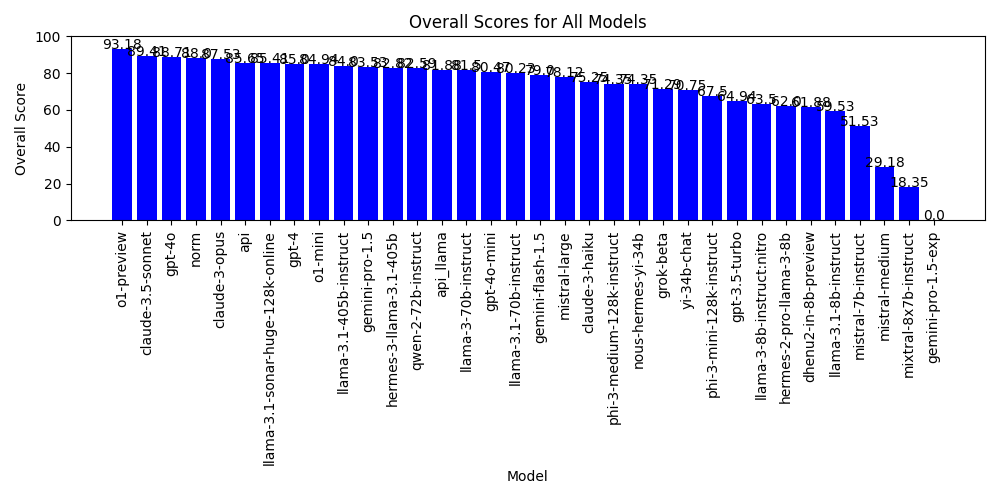
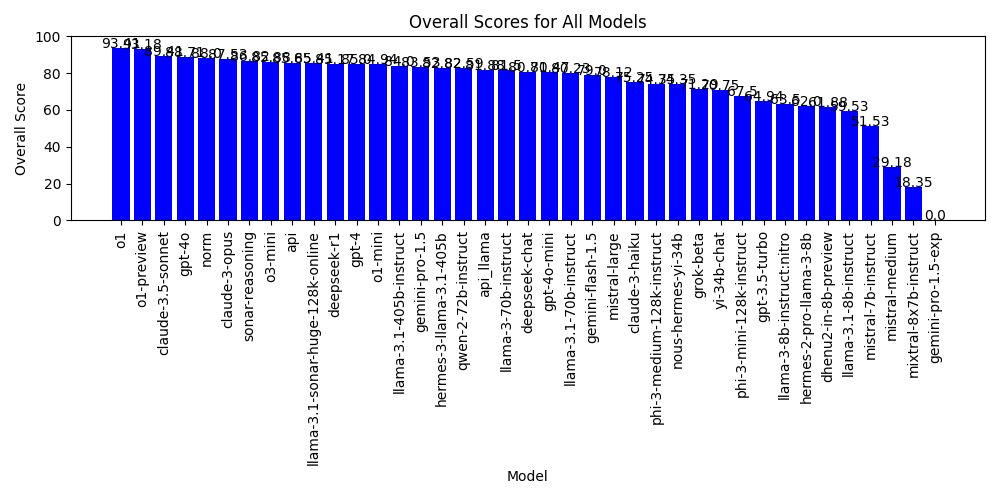
Adding Deepseek & o3-mini

Changed region(s): [[0.093, 0.06, 0.961, 0.93], [0.31, 0.84, 0.341, 0.93]]

diff --git a/main.py b/main.py
@@ -334,7 +334,8 @@ def compare_benchmark_scores(benchmark_results_dir, graphs_by_category_dir, grap
 
 system_prompt = """
         You are a helpful and brilliant agronomist. For the following multiple choice Question, answer  with the key of the correct answer_options value. 
-        Your response must be ONLY the answer_options key of the correct answer_options value and no other text. respond with ONLY a single letter key from answer_options.
+        Your response must be ONLY the answer_options key of the correct answer_options value and no other text. respond with ONLY a single letter key from answer_options. If anything other than a single letter is submitted you will FAIL.
+        DO NOT INCLUDE any Prose, explanation, chain of thought, thought process, or other comments.
 
 """
 
@@ -377,6 +378,7 @@ model_ids = [
     #"openai/gpt-4o-mini",
     #"openai/o1-preview",
     #"openai/o1-mini",
+    #"openai/o1",
     #"perplexity/llama-3-sonar-large-32k-chat",
     #"perplexity/llama-3.1-sonar-huge-128k-online",
     #"pratik/llama3-8b-dhenu-0.1",
@@ -385,7 +387,12 @@ model_ids = [
     #"x-ai/grok-beta",
     #"dhenu/dhenu2-in-8b-preview",
     #"centeotl/api_llama",
-    #"centeotl/api"
+    #"centeotl/api".
+    #"deepseek/deepseek-chat",
+    #"deepseek/deepseek-r1",
+    #"perplexity/sonar-reasoning",
+
+
 
 ]
 

diff --git a/README.md b/README.md
@@ -4,42 +4,46 @@
 ![Overall Scores for All Models](./benchmark_results/all_models_overall_score.png)
 
 
-| Model Name | Overall Score | Date Tested | nutrient_management | soil_and_water | pest_management | crop_management | V1_benchmark_questions | community_questions_FBN | License Type |
-|------------|---------------|-------------|---------------------|----------------|-----------------|-----------------|------------------------|------------------------|--------------|
-| o1-preview | 93.18% | 2024-09-27 | 94.12% | 97.5% | 91.94% | 95.59% | 90.48% | 84.0% | Proprietary |
-| claude-3.5-sonnet | 89.41% | 2024-08-24 | 87.06% | 92.5% | 90.32% | 89.71% | 89.52% | 84.0% | Proprietary |
-| gpt-4o | 88.71% | 2024-08-24 | 87.06% | 88.75% | 90.32% | 88.24% | 91.43% | 80.0% | Proprietary |
-| norm | 88.0% | 2024-08-24 | 82.35% | 90.0% | 88.71% | 89.71% | 89.52% | 88.0% | Proprietary |
-| claude-3-opus | 87.53% | 2024-08-24 | 88.24% | 86.25% | 85.48% | 92.65% | 86.67% | 84.0% | Proprietary |
-| centeotl-api | 85.65% | 2024-11-14 | 88.24% | 85.0% | 88.71% | 80.88% | 88.57% | 72.0% | Proprietary |
-| llama-3.1-sonar-huge-128k-online | 85.41% | 2024-08-24 | 83.53% | 81.25% | 82.26% | 89.71% | 89.52% | 84.0% | Proprietary |
-| gpt-4 | 85.0% | 2024-06-14 | 83.53% | 83.75% | 83.87% | 86.76% | 86.67% | | Proprietary |
-| o1-mini | 84.94% | 2024-09-27 | 85.88% | 85.0% | 85.48% | 83.82% | 87.62% | 72.0% | Proprietary |
-| llama-3.1-405b-instruct | 84.0% | 2024-08-24 | 83.53% | 81.25% | 83.87% | 88.24% | 87.62% | 68.0% | Open Source |
-| gemini-pro-1.5 | 83.53% | 2024-08-24 | 83.53% | 83.75% | 82.26% | 86.76% | 85.71% | 68.0% | Proprietary |
-| hermes-3-llama-3.1-405b | 82.82% | 2024-08-24 | 81.18% | 82.5% | 87.1% | 85.29% | 83.81% | 68.0% | Open Source |
-| qwen-2-72b-instruct | 82.59% | 2024-08-24 | 82.35% | 82.5% | 82.26% | 85.29% | 85.71% | 64.0% | Open Source |
-| centeotl-api-llama | 81.88% | 2024-11-17 | 85.88% | 85.0% | 82.26% | 79.41% | 83.81% | 56.0% | Proprietary |
-| llama-3-70b-instruct | 81.5% | 2024-06-14 | 78.82% | 78.75% | 82.26% | 83.82% | 83.81% | | Open Source |
-| gpt-4o-mini | 80.47% | 2024-08-24 | 77.65% | 85.0% | 75.81% | 82.35% | 81.9% | 76.0% | Proprietary |
-| llama-3.1-70b-instruct | 80.23% | 2024-08-24 | 75.29% | 81.25% | 82.26% | 89.71% | 80.95% | 60.0% | Open Source |
-| gemini-flash-1.5 | 79.0% | 2024-06-14 | 74.12% | 76.25% | 83.87% | 85.29% | 78.1% | | Proprietary |
-| mistral-large | 78.12% | 2024-08-24 | 75.29% | 77.5% | 82.26% | 76.47% | 81.9% | 68.0% | Open Source |
-| claude-3-haiku | 75.25% | 2024-06-14 | 71.76% | 73.75% | 79.03% | 72.06% | 79.05% | | Proprietary |
-| phi-3-medium-128k-instruct | 74.35% | 2024-08-24 | 70.59% | 77.5% | 79.03% | 75.0% | 73.33% | 68.0% | Open Source |
-| nous-hermes-yi-34b | 74.35% | 2024-08-24 | 70.59% | 76.25% | 83.87% | 72.06% | 74.29% | 64.0% | Open Source |
-| grok-beta | 71.29% | 2024-10-21 | 72.94% | 68.75% | 67.74% | 67.65% | 76.19% | 72.0% | Proprietary |
-| yi-34b-chat | 70.75% | 2024-06-14 | 68.24% | 68.75% | 79.03% | 70.59% | 69.52% | | Open Source |
-| phi-3-mini-128k-instruct | 67.5% | 2024-06-14 | 60.0% | 71.25% | 67.74% | 69.12% | 69.52% | | Open Source |
-| gpt-3.5-turbo | 64.94% | 2024-08-24 | 62.35% | 61.25% | 70.97% | 72.06% | 70.48% | 28.0% | Proprietary |
-| llama-3-8b-instruct:nitro | 63.5% | 2024-06-14 | 54.12% | 68.75% | 61.29% | 72.06% | 62.86% | | Open Source |
-| hermes-2-pro-llama-3-8b | 62.0% | 2024-06-14 | 57.65% | 57.5% | 62.9% | 66.18% | 65.71% | | Open Source |
-| dhenu2-in-8b-preview | 61.88% | 2024-11-14 | 52.94% | 67.5% | 67.74% | 61.76% | 66.67% | 40.0% | Open Source |
-| llama-3.1-8b-instruct | 59.53% | 2024-08-24 | 51.76% | 58.75% | 61.29% | 66.18% | 59.05% | 68.0% | Open Source |
-| mistral-7b-instruct | 51.53% | 2024-08-24 | 41.18% | 50.0% | 62.9% | 60.29% | 53.33% | 32.0% | Open Source |
-| mistral-medium | 29.18% | 2024-08-24 | 30.59% | 23.75% | 20.97% | 41.18% | 34.29% | 8.0% | Open Source |
-| mixtral-8x7b-instruct | 18.35% | 2024-08-24 | 16.47% | 13.75% | 17.74% | 14.71% | 26.67% | 16.0% | Open Source |
-
+| Model Name | Overall Score | Date Tested | nutrient_management | soil_and_water | pest_management | crop_management | V1_benchmark_questions | community_questions_FBN |
+|------------|---------------|-------------|-------|-------|-------|-------|-------|-------|
+| o1 | 93.41% | 2025-02-05 | 96.47% | 96.25% | 90.32% | 94.12% | 91.43% | 88.0% |
+| o1-preview | 93.18% | 2024-09-27 | 94.12% | 97.5% | 91.94% | 95.59% | 90.48% | 84.0% |
+| claude-3.5-sonnet | 89.41% | 2024-08-24 | 87.06% | 92.5% | 90.32% | 89.71% | 89.52% | 84.0% |
+| gpt-4o | 88.71% | 2024-08-24 | 87.06% | 88.75% | 90.32% | 88.24% | 91.43% | 80.0% |
+| norm | 88.0% | 2024-08-24 | 82.35% | 90.0% | 88.71% | 89.71% | 89.52% | 88.0% |
+| claude-3-opus | 87.53% | 2024-08-24 | 88.24% | 86.25% | 85.48% | 92.65% | 86.67% | 84.0% |
+| sonar-reasoning | 86.82% | 2025-02-04 | 85.88% | 86.25% | 85.48% | 88.24% | 88.57% | 84.0% |
+| o3-mini | 85.88% | 2025-02-04 | 83.53% | 92.5% | 87.1% | 88.24% | 85.71% | 64.0% |
+| api | 85.65% | 2024-11-14 | 88.24% | 85.0% | 88.71% | 80.88% | 88.57% | 72.0% |
+| llama-3.1-sonar-huge-128k-online | 85.41% | 2024-08-24 | 83.53% | 81.25% | 82.26% | 89.71% | 89.52% | 84.0% |
+| deepseek-r1 | 85.17% | 2025-02-04 | 82.35% | 82.5% | 90.32% | 86.76% | 85.71% | 84.0% |
+| gpt-4 | 85.0% | 2024-06-14 | 83.53% | 83.75% | 83.87% | 86.76% | 86.67% |
+| o1-mini | 84.94% | 2024-09-27 | 85.88% | 85.0% | 85.48% | 83.82% | 87.62% | 72.0% |
+| llama-3.1-405b-instruct | 84.0% | 2024-08-24 | 83.53% | 81.25% | 83.87% | 88.24% | 87.62% | 68.0% |
+| gemini-pro-1.5 | 83.53% | 2024-08-24 | 83.53% | 83.75% | 82.26% | 86.76% | 85.71% | 68.0% |
+| hermes-3-llama-3.1-405b | 82.82% | 2024-08-24 | 81.18% | 82.5% | 87.1% | 85.29% | 83.81% | 68.0% |
+| qwen-2-72b-instruct | 82.59% | 2024-08-24 | 82.35% | 82.5% | 82.26% | 85.29% | 85.71% | 64.0% |
+| api_llama | 81.88% | 2024-11-17 | 85.88% | 85.0% | 82.26% | 79.41% | 83.81% | 56.0% |
+| llama-3-70b-instruct | 81.5% | 2024-06-14 | 78.82% | 78.75% | 82.26% | 83.82% | 83.81% |
+| deepseek-chat | 80.71% | 2025-02-04 | 83.53% | 83.75% | 83.87% | 76.47% | 83.81% | 52.0% |
+| gpt-4o-mini | 80.47% | 2024-08-24 | 77.65% | 85.0% | 75.81% | 82.35% | 81.9% | 76.0% |
+| llama-3.1-70b-instruct | 80.23% | 2024-08-24 | 75.29% | 81.25% | 82.26% | 89.71% | 80.95% | 60.0% |
+| gemini-flash-1.5 | 79.0% | 2024-06-14 | 74.12% | 76.25% | 83.87% | 85.29% | 78.1% |
+| mistral-large | 78.12% | 2024-08-24 | 75.29% | 77.5% | 82.26% | 76.47% | 81.9% | 68.0% |
+| claude-3-haiku | 75.25% | 2024-06-14 | 71.76% | 73.75% | 79.03% | 72.06% | 79.05% |
+| phi-3-medium-128k-instruct | 74.35% | 2024-08-24 | 70.59% | 77.5% | 79.03% | 75.0% | 73.33% | 68.0% |
+| nous-hermes-yi-34b | 74.35% | 2024-08-24 | 70.59% | 76.25% | 83.87% | 72.06% | 74.29% | 64.0% |
+| grok-beta | 71.29% | 2024-10-21 | 72.94% | 68.75% | 67.74% | 67.65% | 76.19% | 72.0% |
+| yi-34b-chat | 70.75% | 2024-06-14 | 68.24% | 68.75% | 79.03% | 70.59% | 69.52% |
+| phi-3-mini-128k-instruct | 67.5% | 2024-06-14 | 60.0% | 71.25% | 67.74% | 69.12% | 69.52% |
+| gpt-3.5-turbo | 64.94% | 2024-08-24 | 62.35% | 61.25% | 70.97% | 72.06% | 70.48% | 28.0% |
+| llama-3-8b-instruct:nitro | 63.5% | 2024-06-14 | 54.12% | 68.75% | 61.29% | 72.06% | 62.86% |
+| hermes-2-pro-llama-3-8b | 62.0% | 2024-06-14 | 57.65% | 57.5% | 62.9% | 66.18% | 65.71% |
+| dhenu2-in-8b-preview | 61.88% | 2024-11-14 | 52.94% | 67.5% | 67.74% | 61.76% | 66.67% | 40.0% |
+| llama-3.1-8b-instruct | 59.53% | 2024-08-24 | 51.76% | 58.75% | 61.29% | 66.18% | 59.05% | 68.0% |
+| mistral-7b-instruct | 51.53% | 2024-08-24 | 41.18% | 50.0% | 62.9% | 60.29% | 53.33% | 32.0% |
+| mistral-medium | 29.18% | 2024-08-24 | 30.59% | 23.75% | 20.97% | 41.18% | 34.29% | 8.0% |
+| mixtral-8x7b-instruct | 18.35% | 2024-08-24 | 16.47% | 13.75% | 17.74% | 14.71% | 26.67% | 16.0% |
 
 # What is this?
 We are benchmarking the ability for different models to give correct answers to Agronomy questions. This is a simple, 98 multiple-choice question benchmark today, and I plan to make it more complete and challenging in the future.
